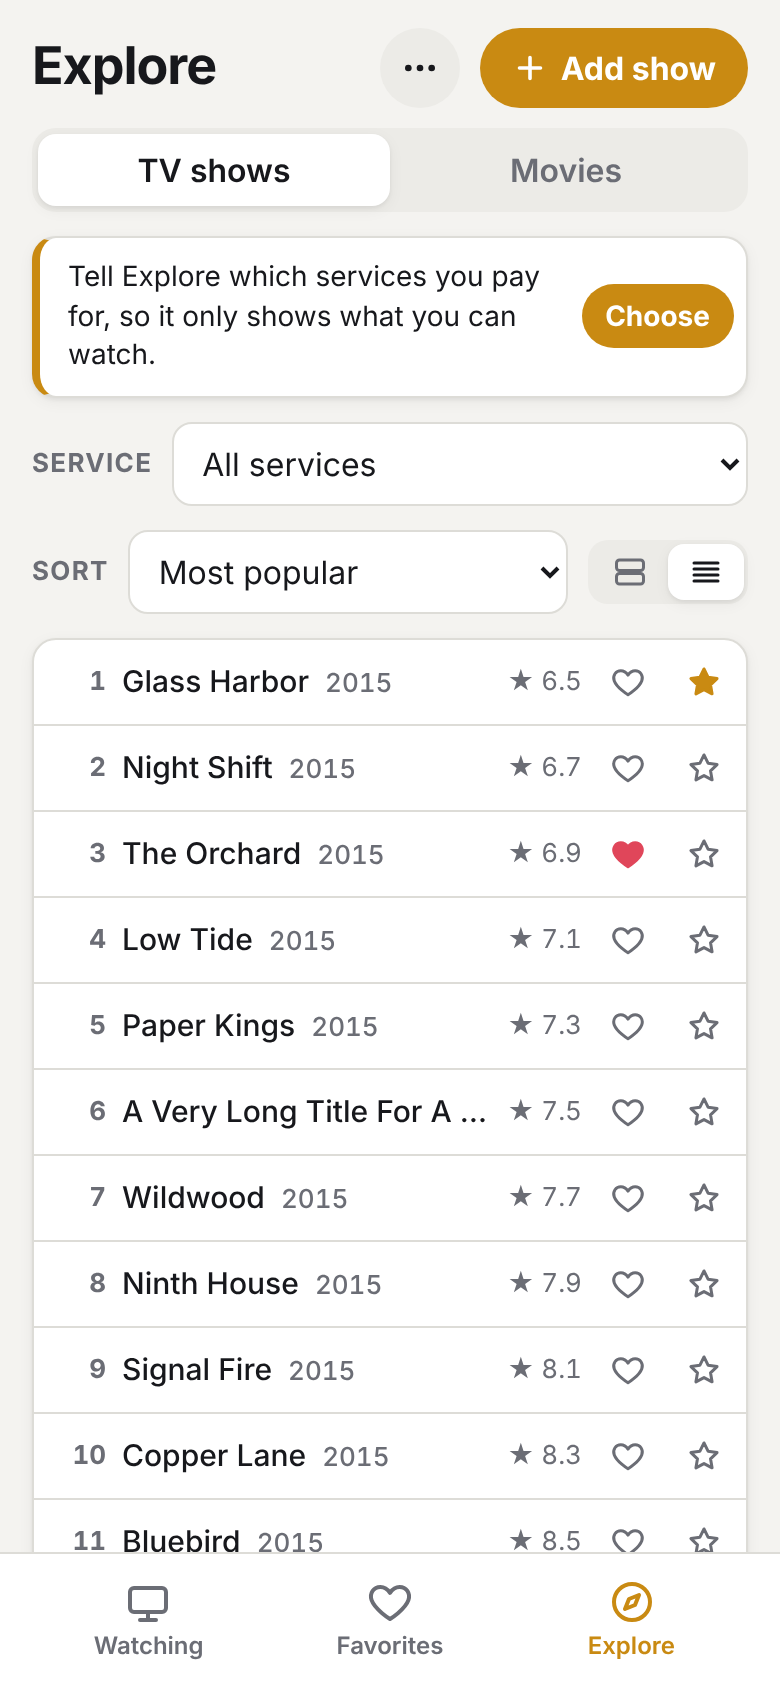
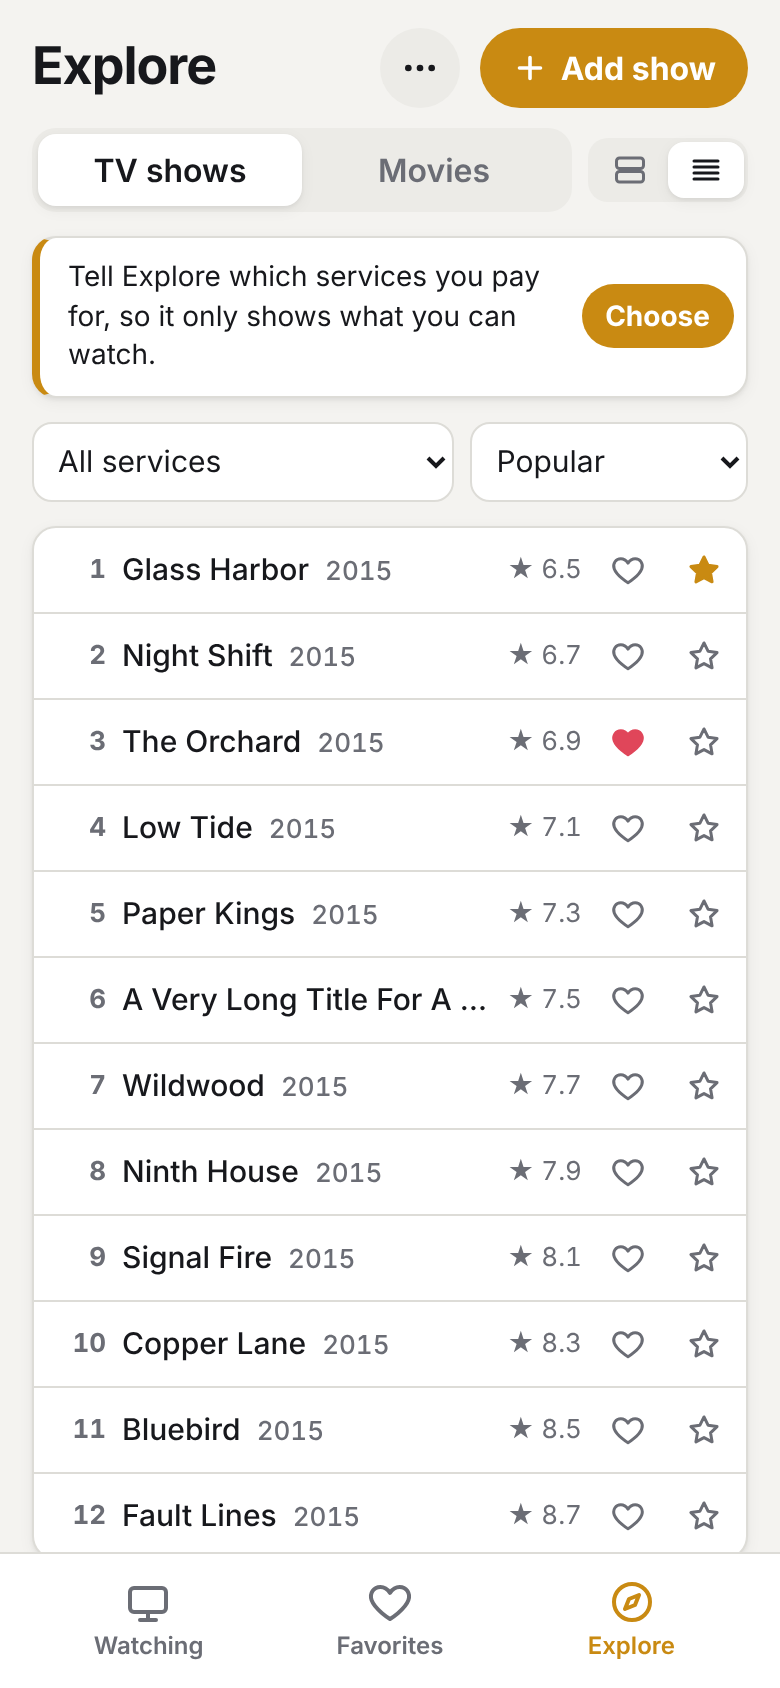
Networks map to streaming services; Explore filters on one row
- NBC/CBS/ABC/FOX/TLC/AMC and other TV networks now show as the streaming
  service that carries them (Peacock, Paramount+, Disney+, HBO Max, AMC+);
  'Cable / Live TV' removed from the service list.
- Explore: Service and Sort dropdowns share a row; view toggle moved next
  to TV shows / Movies.

Claude-Session: https://claude.ai/code/session_01UaPnu9ZXz2kShvWpW8kzpj

diff --git a/index.html b/index.html
@@ -293,7 +293,12 @@ body.has-bulk{padding-bottom:calc(env(safe-area-inset-bottom) + 150px)}
 .subs-banner{margin-bottom:12px}
 .provrow{display:flex;align-items:center;gap:10px;margin:0 0 12px}
 .provrow label{font-size:13px;font-weight:650;text-transform:uppercase;letter-spacing:.05em;color:var(--muted)}
-.provrow select{flex:1;min-width:0;height:42px;border-radius:10px;border:1px solid var(--line);background:var(--surface);padding:0 10px;font-size:16px;color:var(--text)}
+.provrow{gap:8px!important}
+.provrow select{flex:1 1 0;min-width:0;height:40px;border-radius:10px;border:1px solid var(--line);background:var(--surface);padding:0 8px;font-size:15px;color:var(--text);text-overflow:ellipsis}
+.provrow #provSel{flex-grow:1.6}
+.exhead{display:flex;gap:8px;align-items:center;margin-bottom:12px}
+.exhead .seg{flex:1;margin:0}
+.exhead .seg.mini{flex:none}
 .tabtools{display:flex;justify-content:flex-end;margin:-4px 0 10px}
 .count{font-size:13px;color:var(--muted);font-variant-numeric:tabular-nums;flex:none;align-self:flex-start;padding-top:2px}
 .empty{text-align:center;color:var(--muted);padding:56px 16px}
@@ -444,7 +449,18 @@ function normalizeService(name) {
   const n = String(name).trim().replace(/\s+(Amazon|Apple TV|Roku Premium) Channel$/i, "").replace(/\s+(Standard |Basic )?with Ads$/i, "");
   if (/^(hbo\b.*|max)$/i.test(n)) return "HBO Max";
   if (/^hulu\b/i.test(n)) return "Disney+";   // Hulu now lives inside Disney+
-  return n;
+  return networkHome(n) || n;   // TV networks -> the streaming service that carries them
+}
+function networkHome(n) {
+  const homes = [
+  [/^(nbc|bravo|usa network|syfy|e!|oxygen)$/i, "Peacock"],
+  [/^(cbs|showtime|comedy central|mtv|nickelodeon|nick jr\.?|bet|paramount network|smithsonian channel|cbs all access)$/i, "Paramount+"],
+  [/^(abc|fox|fx|fxx|freeform|abc family|national geographic|nat geo|disney channel|disney junior|disney xd)$/i, "Disney+"],
+  [/^(tbs|tnt|tlc|discovery( channel)?|hgtv|food network|cartoon network|adult swim|cnn|trutv|investigation discovery|animal planet|cinemax)$/i, "HBO Max"],
+  [/^(amc|bbc america|ifc|sundancetv|sundance tv|we tv)$/i, "AMC+"]
+  ];
+  const hit = homes.find(([re]) => re.test(n));
+  return hit ? hit[1] : null;
 }
 function normalizeListServices(L) {
   for (const x of [...Object.values(L.shows || {}), ...Object.values(L.movies || {})]) {
@@ -1718,11 +1734,12 @@ function openExploreSettings() {
 async function drawExploreControls() {
   const body = $("#exBody");
   body.innerHTML = `
-    <div class="seg">${[["tv", "TV shows"], ["movie", "Movies"]].map(([v, l]) => `<button data-type="${v}" class="${ex.type === v ? "on" : ""}">${l}</button>`).join("")}</div>
-    ${mySubs() ? "" : `<div class="banner subs-banner"><span>Tell Explore which services you pay for, so it only shows what you can watch.</span><button class="btn small" id="pickSubs">Choose</button></div>`}
-    <div class="provrow"><label for="provSel">Service</label><select id="provSel"><option value="All">All services</option></select></div>
-    <div class="provrow"><label for="sortSel">Sort</label><select id="sortSel">${[["popular", "Most popular"], ["top", "Top rated"], ["new", "Newest"]].map(([v, l]) => `<option value="${v}" ${ex.sort === v ? "selected" : ""}>${l}</option>`).join("")}</select>
+    <div class="exhead"><div class="seg">${[["tv", "TV shows"], ["movie", "Movies"]].map(([v, l]) => `<button data-type="${v}" class="${ex.type === v ? "on" : ""}">${l}</button>`).join("")}</div>
       ${viewToggleHtml(settings().exView === "text")}</div>
+    ${mySubs() ? "" : `<div class="banner subs-banner"><span>Tell Explore which services you pay for, so it only shows what you can watch.</span><button class="btn small" id="pickSubs">Choose</button></div>`}
+    <div class="provrow">
+      <select id="provSel" aria-label="Service"><option value="All">All services</option></select>
+      <select id="sortSel" aria-label="Sort">${[["popular", "Popular"], ["top", "Top rated"], ["new", "Newest"]].map(([v, l]) => `<option value="${v}" ${ex.sort === v ? "selected" : ""}>${l}</option>`).join("")}</select></div>
     <div id="exGrid"></div>`;
   body.querySelectorAll("[data-type]").forEach(b => b.onclick = () => { if (ex.type !== b.dataset.type) { ex.type = b.dataset.type; drawExploreControls(); loadExplore(true); } });
   body.querySelectorAll("[data-view]").forEach(b => b.onclick = () => {
@@ -2093,7 +2110,7 @@ function summaryHtml(show) {
        + tile(airedLeft, "Left to watch", notOut ? `+${notOut} not out yet` : "all are out");
 }
 const MAIN_SERVICES = ["Netflix", "HBO Max", "Disney+", "Prime Video", "Apple TV+", "Peacock", "Paramount+", "Starz", "AMC+", "Crunchyroll",
-  "The Roku Channel", "Tubi", "Pluto TV", "YouTube", "YouTube TV", "Cable / Live TV"];
+  "The Roku Channel", "Tubi", "Pluto TV", "YouTube", "YouTube TV"];
 const OTHER = "__other__";
 function serviceOptions(show) {
   const cur = show.service || "";
